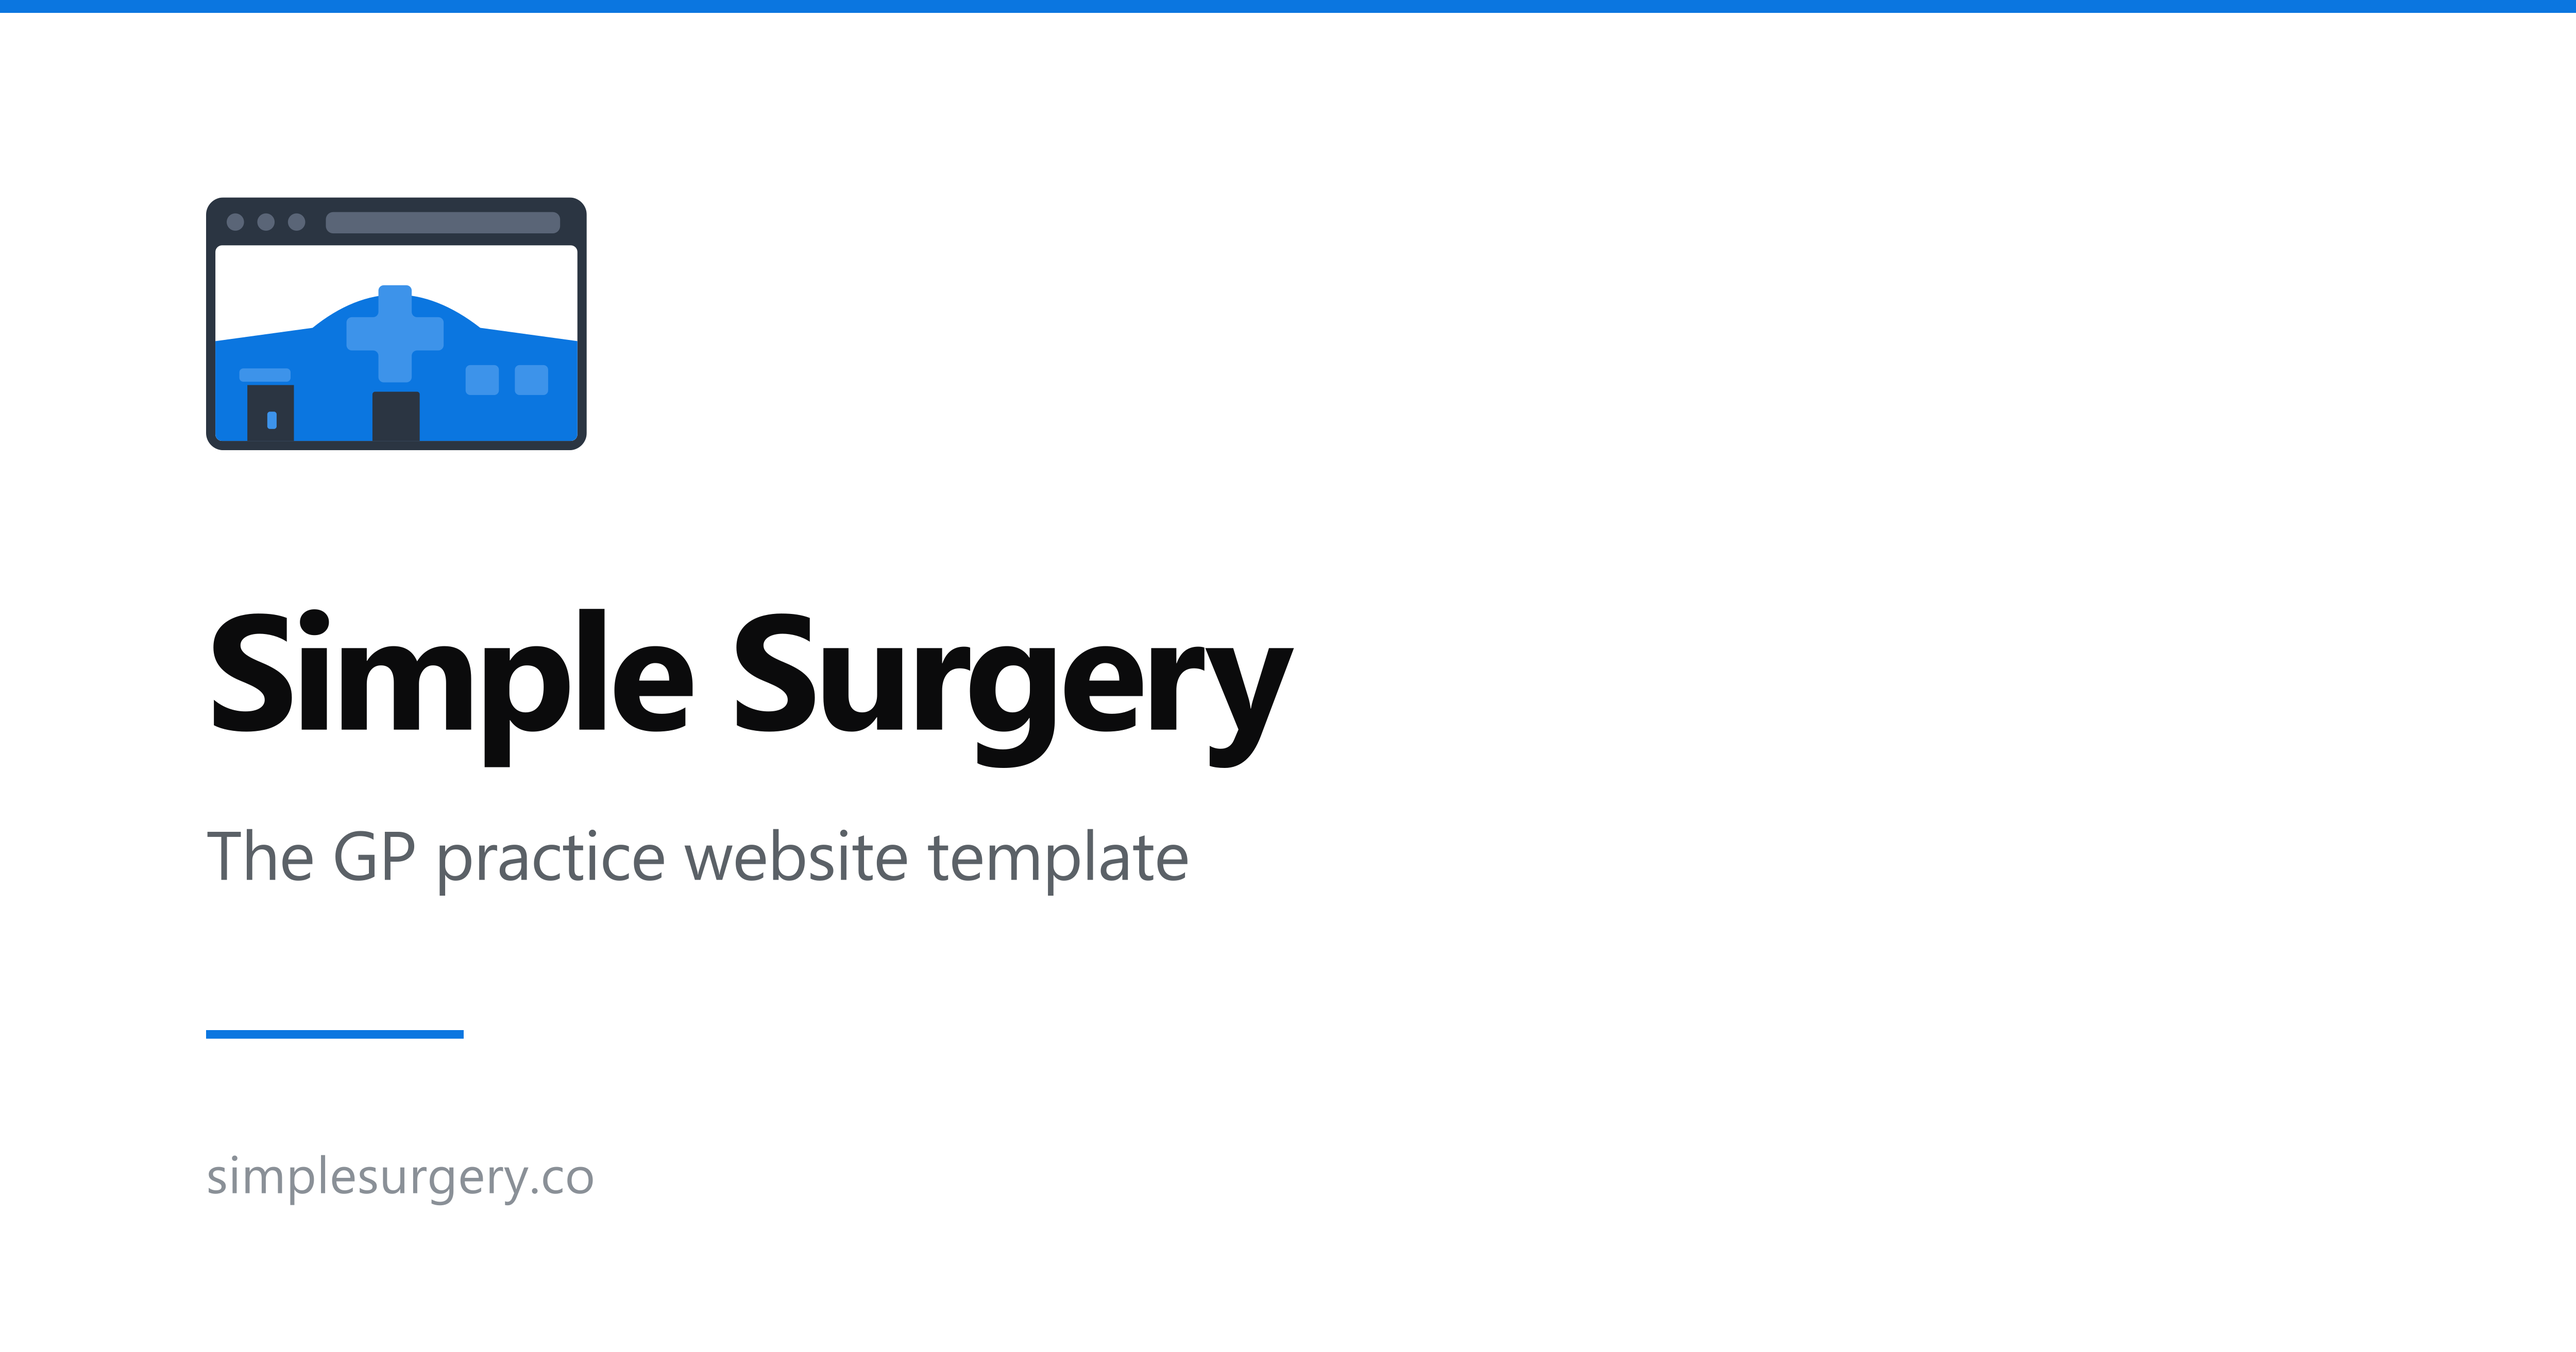
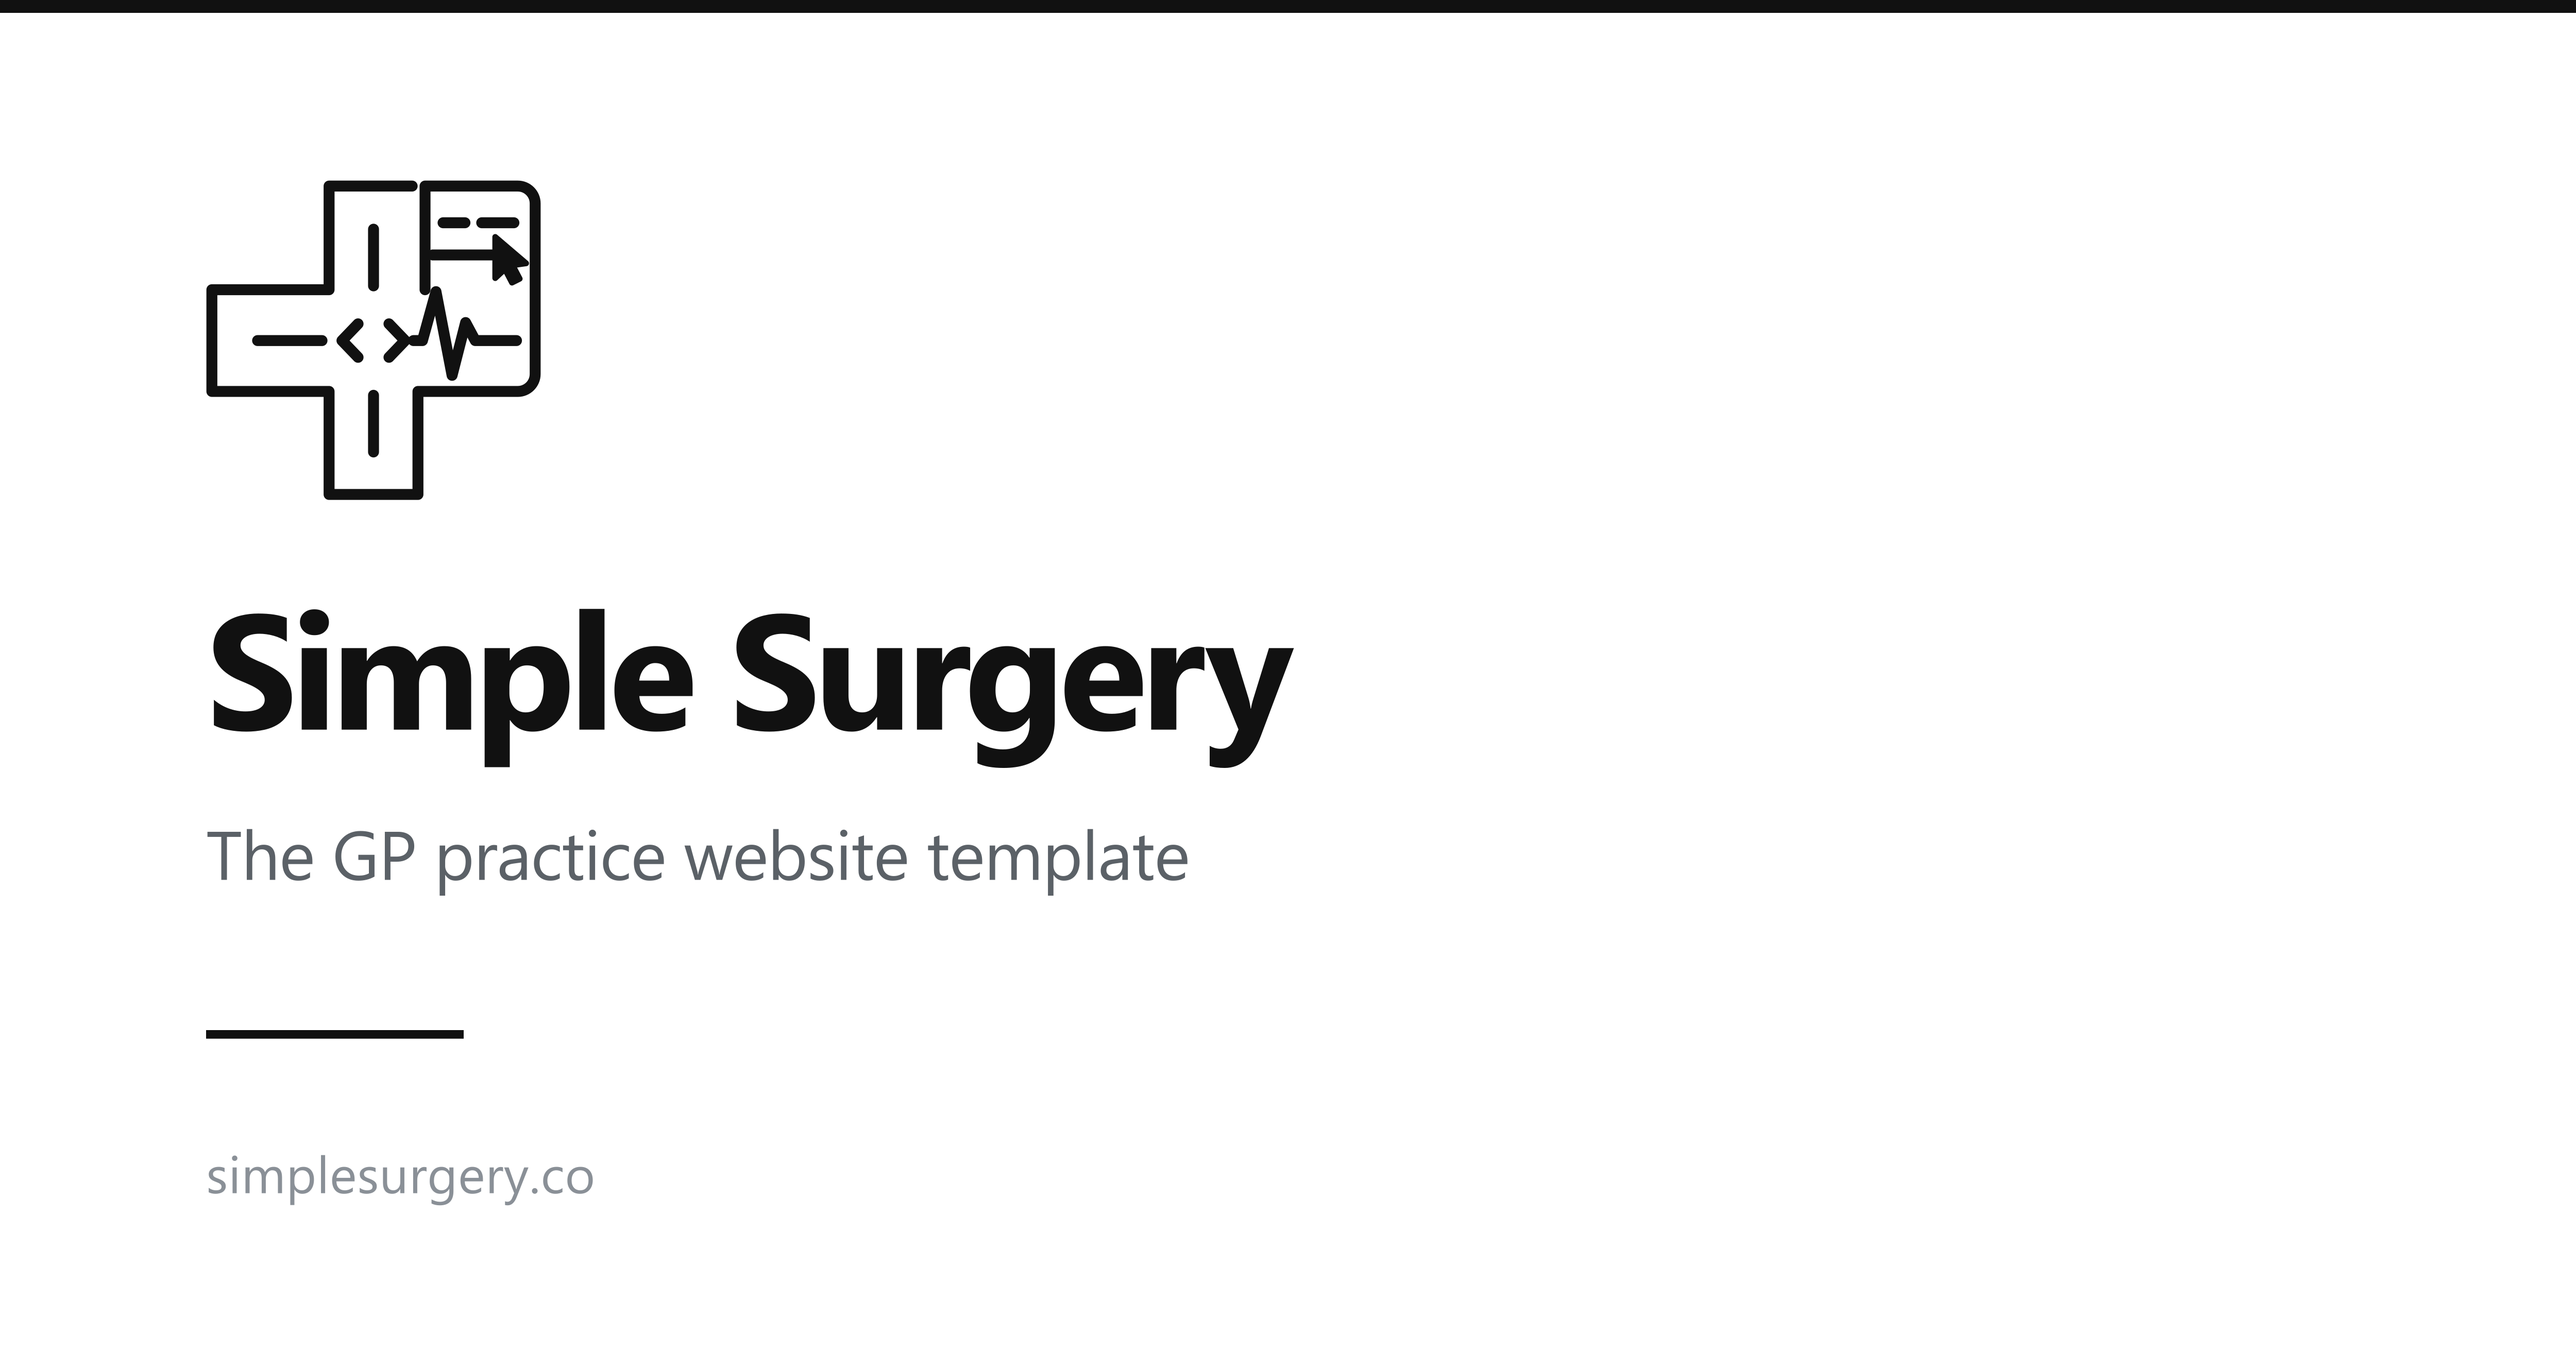
New mark, and a middle tier for the free option
Brand:
- Replaced the mark with the new artwork: a medical cross whose right arm is a
  browser window, with chevrons at the centre and a heartbeat leaving the cross
  and crossing the window.
- Drawn as one continuous open path plus detail strokes, all in currentColor.
  No fills and no masking, so a single file serves light, dark and any accent,
  and the window stays open on its lower left, which is what lets the heartbeat
  cross without a line cutting through it.
- It is line art, so it collapses at 16 and 24 pixels. Those entries in the
  .ico are the solid silhouette instead, which keeps the same distinctive shape
  at a size where strokes are only noise.
- Practice sites still wear the NHS logo in the tab. Verified the two favicons
  are different files.

Template:
- The Simple Surgery mark now appears beside the footer credit, small and in
  currentColor so it sits at the weight of the grey text rather than competing
  with the practice's own branding. Only the silhouette is drawn at that size,
  with a heavier stroke, because the interior detail would be sub-pixel.
- Still switched off by the existing "Show the built with Simple Surgery
  credit" toggle, mark included.

Marketing:
- Added a middle button tier and used it for "Make your own, free". A heavier
  border and full strength ink make it read as a real choice rather than a
  footnote, without competing with the solid black of Buy now.

Changed region(s): [[0.0624, 0.125, 0.2496, 0.3749], [0.0, 0.0, 1.0, 0.0312], [0.0936, 0.7497, 0.1872, 0.781]]

diff --git a/src/components/SimpleSurgeryMark.tsx b/src/components/SimpleSurgeryMark.tsx
@@ -1,0 +1,38 @@
+/**
+ * The Simple Surgery mark, for the credit in the practice footer.
+ *
+ * Small and in `currentColor`, so it sits at the same weight as the grey text
+ * beside it rather than competing with the practice's own branding. The whole
+ * credit, mark included, is switched off by "Show the built with Simple
+ * Surgery credit" in Advanced settings.
+ *
+ * Inlined rather than loaded from /mark.svg so it costs no request and cannot
+ * break if a practice clears out their public folder.
+ */
+export function SimpleSurgeryMark({ size = 15 }: { size?: number }) {
+  return (
+    <svg
+      width={Math.round((size * 520) / 497)}
+      height={size}
+      viewBox="0 0 520 497"
+      aria-hidden="true"
+      focusable="false"
+      className="inline-block shrink-0 align-[-0.15em]"
+    >
+      <g
+        fill="none"
+        stroke="currentColor"
+        strokeWidth="30"
+        strokeLinecap="round"
+        strokeLinejoin="round"
+      >
+        {/*
+          Only the silhouette. At this size the chevrons, heartbeat and cursor
+          would be sub-pixel noise, and a heavier stroke keeps the outline
+          readable next to 13px text.
+        */}
+        <path d="M320 9 H191 V170 H9 V328 H191 V488 H329 V328 H484 A27 27 0 0 0 511 301 V36 A27 27 0 0 0 484 9 H340 V170" />
+      </g>
+    </svg>
+  )
+}

diff --git a/src/components/Footer.tsx b/src/components/Footer.tsx
@@ -2,6 +2,7 @@ import Link from 'next/link'
 import type { SiteConfig } from '@/lib/config/types'
 import { formatDateShort } from '@/lib/hours'
 import { NhsLogo } from './NhsLogo'
+import { SimpleSurgeryMark } from './SimpleSurgeryMark'
 
 /**
  * Site footer.
@@ -184,14 +185,15 @@ export function Footer({ config, base }: { config: SiteConfig; base: string }) {
           </p>
 
           {advanced.showCredit && (
-            <p>
-              Built with{' '}
+            <p className="flex items-center gap-1.5">
+              <span>Built with</span>
               <a
-                href="https://simplesurgery.co"
-                className="ss-link"
+                href="https://www.simplesurgery.co"
+                className="ss-link inline-flex items-center gap-1.5"
                 target="_blank"
                 rel="noopener noreferrer"
               >
+                <SimpleSurgeryMark size={14} />
                 Simple Surgery
               </a>
             </p>
